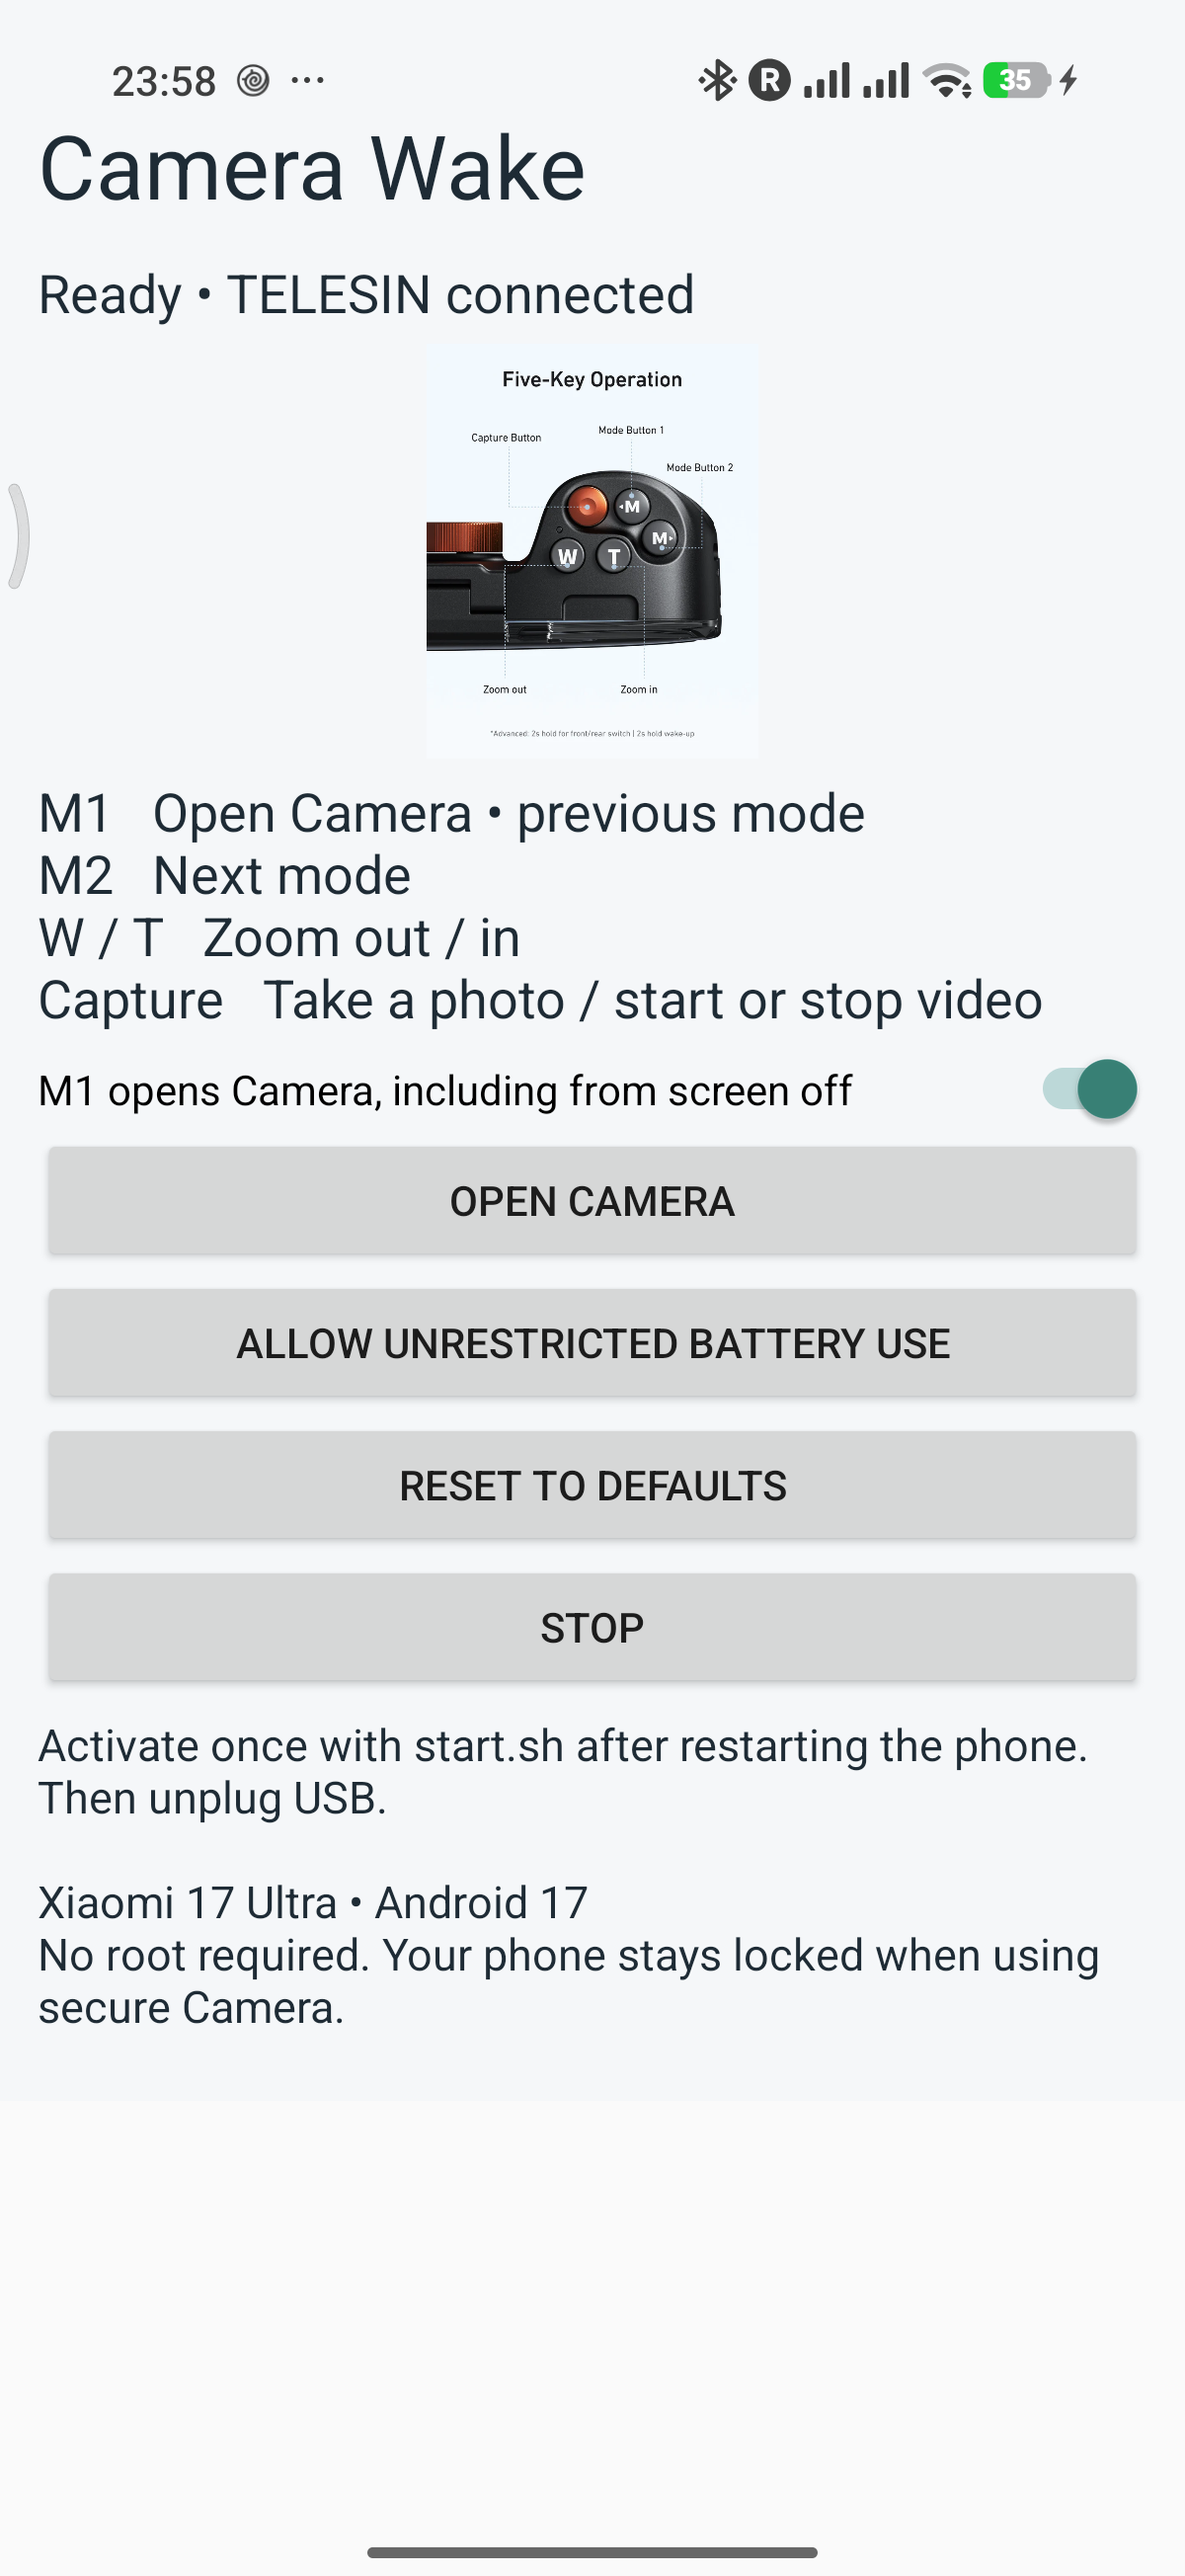
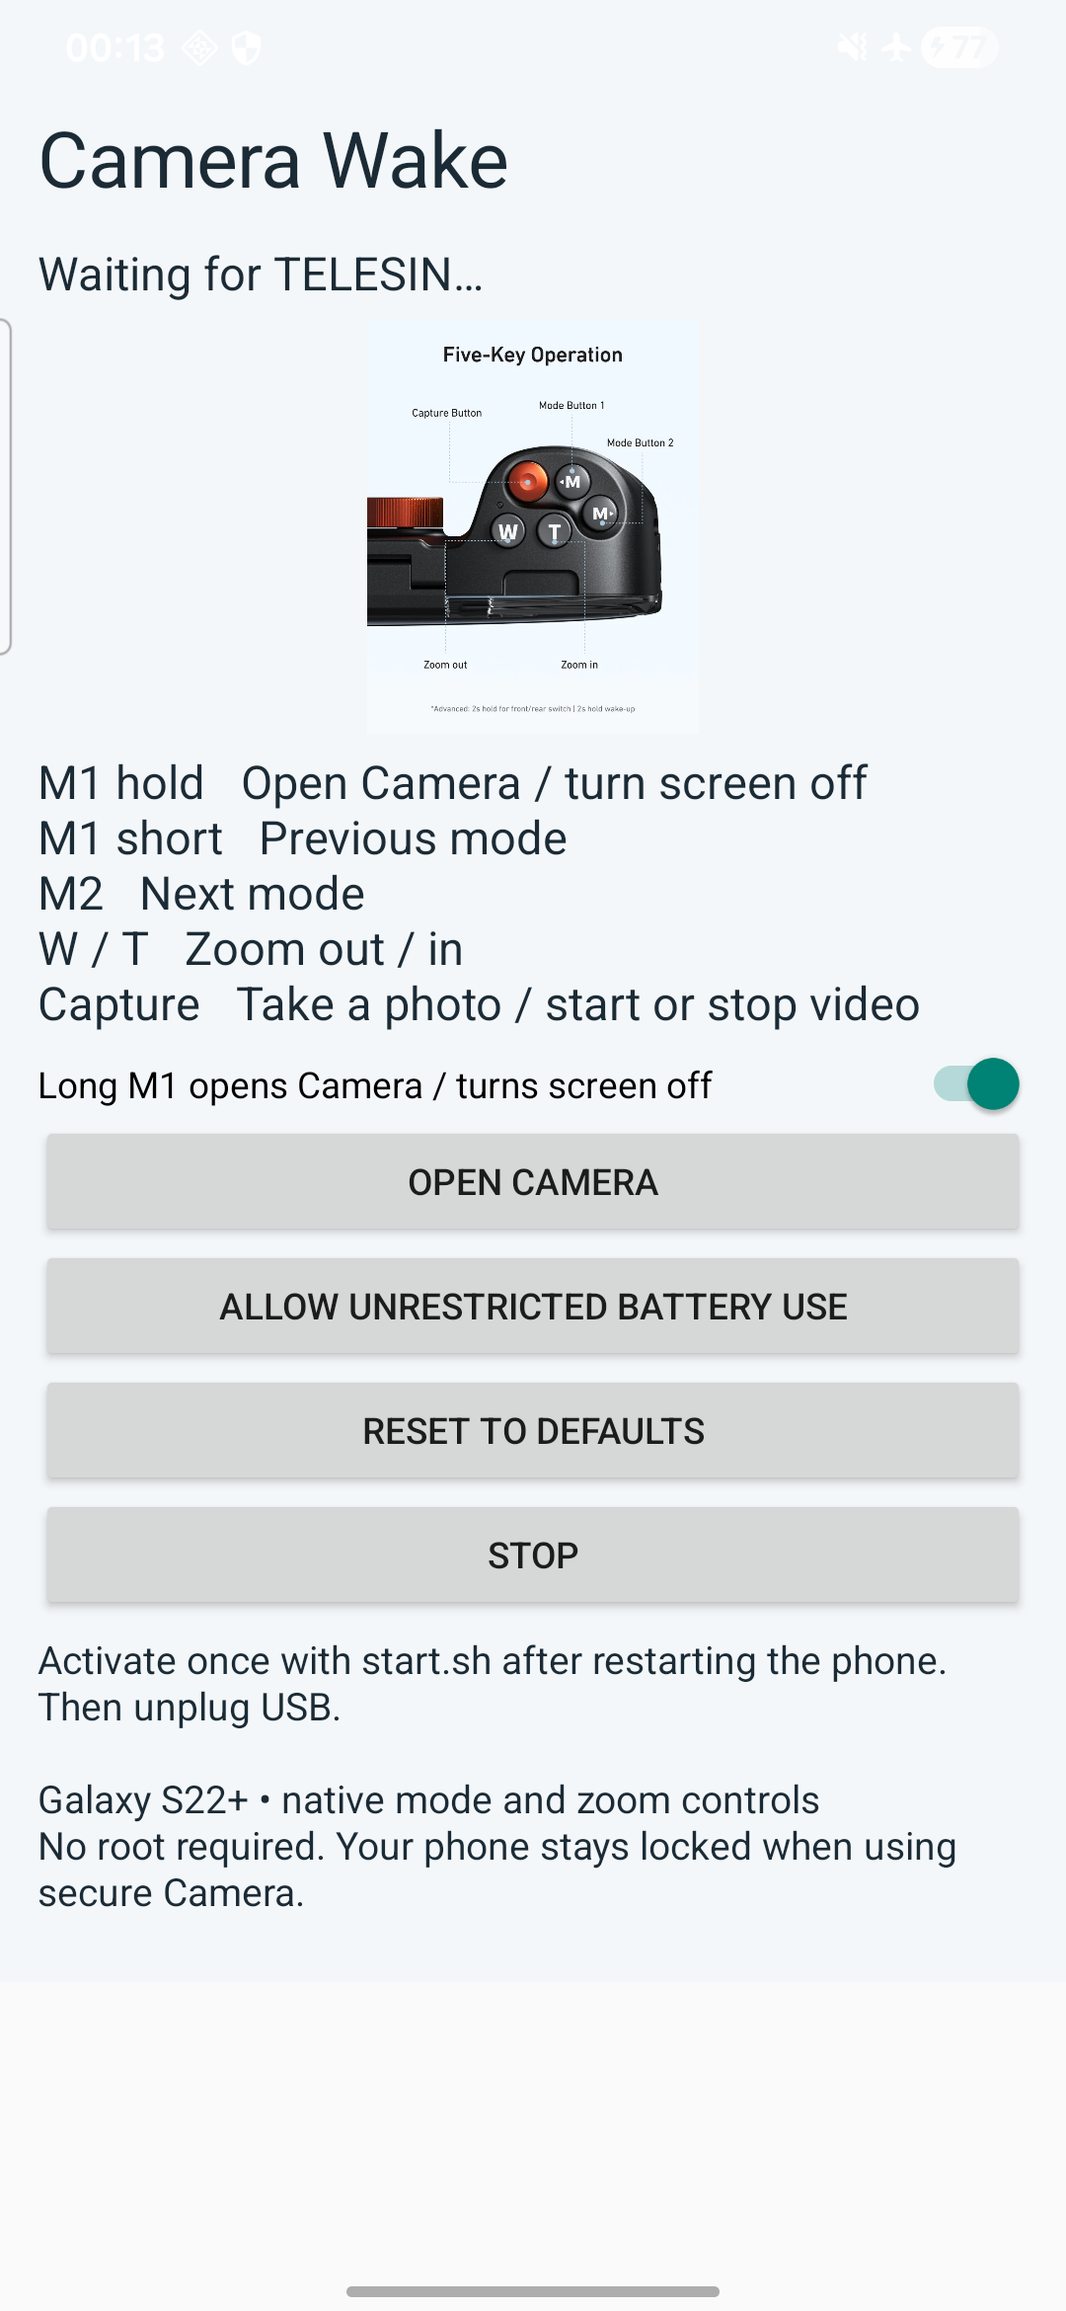
Update app screenshot to current S22+ design

diff --git a/README.md b/README.md
@@ -18,7 +18,7 @@ Samsung keeps its native controls; Xiaomi gets the mode/zoom compatibility fix. 
 
 Screen-off camera launch and mode/zoom controls were user-tested on both phones with the preceding wake behavior. Xiaomi compatibility also worked with USB unplugged. On S22+, the user confirmed long M1 camera launch, a second hold turning the screen off, short M1/M2 modes and W/T zoom. The remote may briefly show an unlock screen or Camera before the final action; its built-in macro causes these transitions. Other camera layouts and long-term background survival are unverified.
 
-<img src="docs/screenshots/camera-wake-main.png" alt="Camera Wake app, earlier Xiaomi screen" width="320">
+<img src="docs/screenshots/camera-wake-main.png" alt="Camera Wake 2.1 on Galaxy S22+" width="320">
 
 ## Build
 
